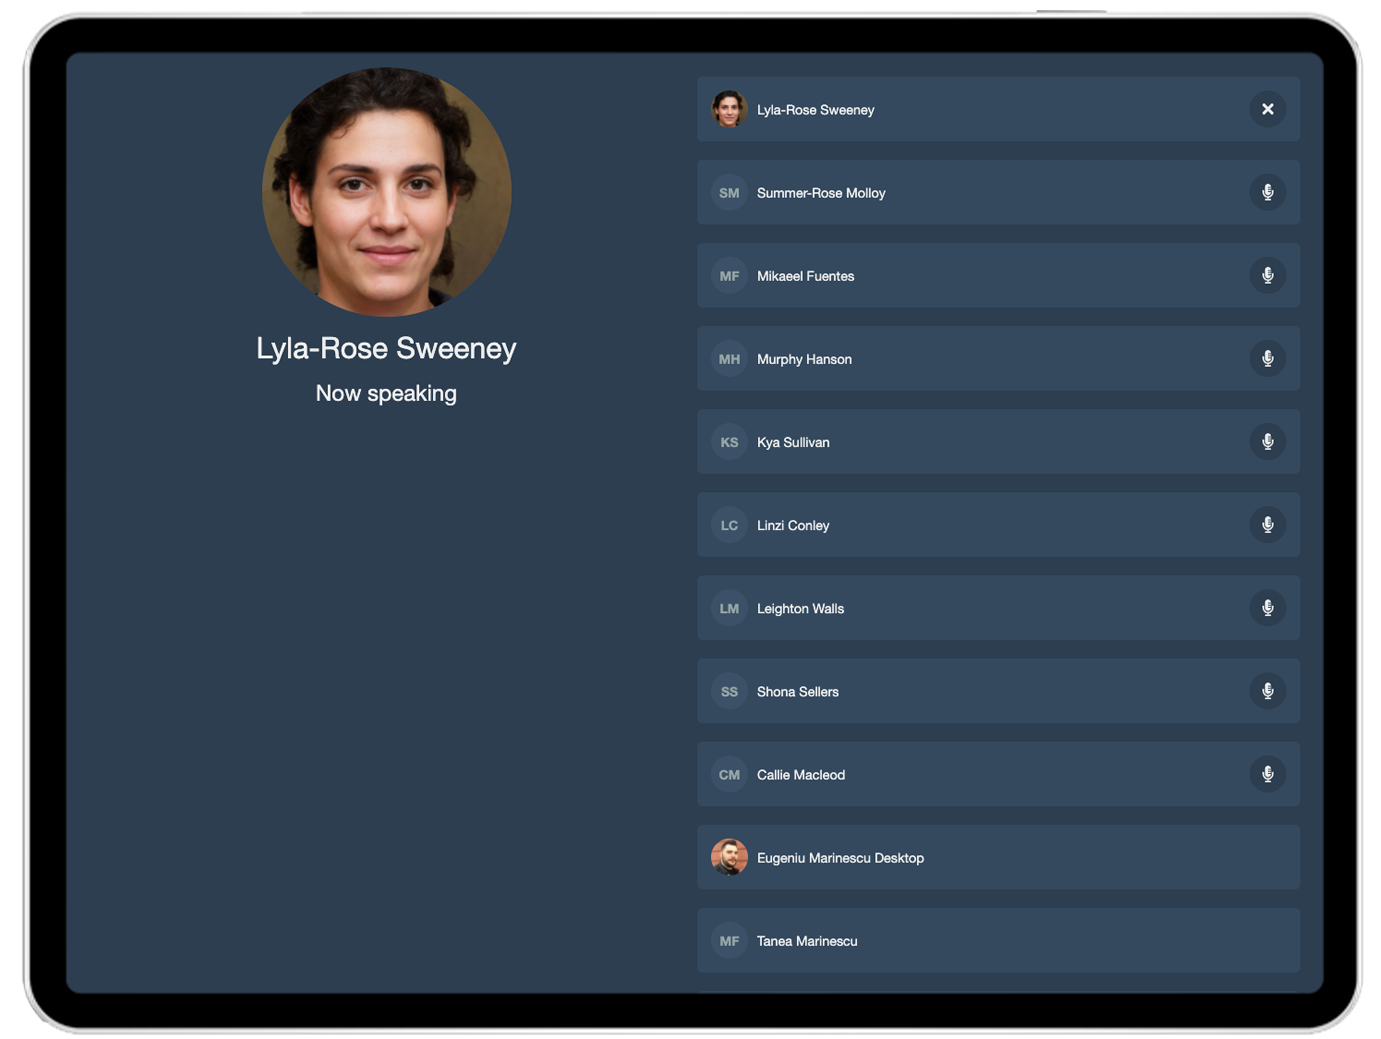
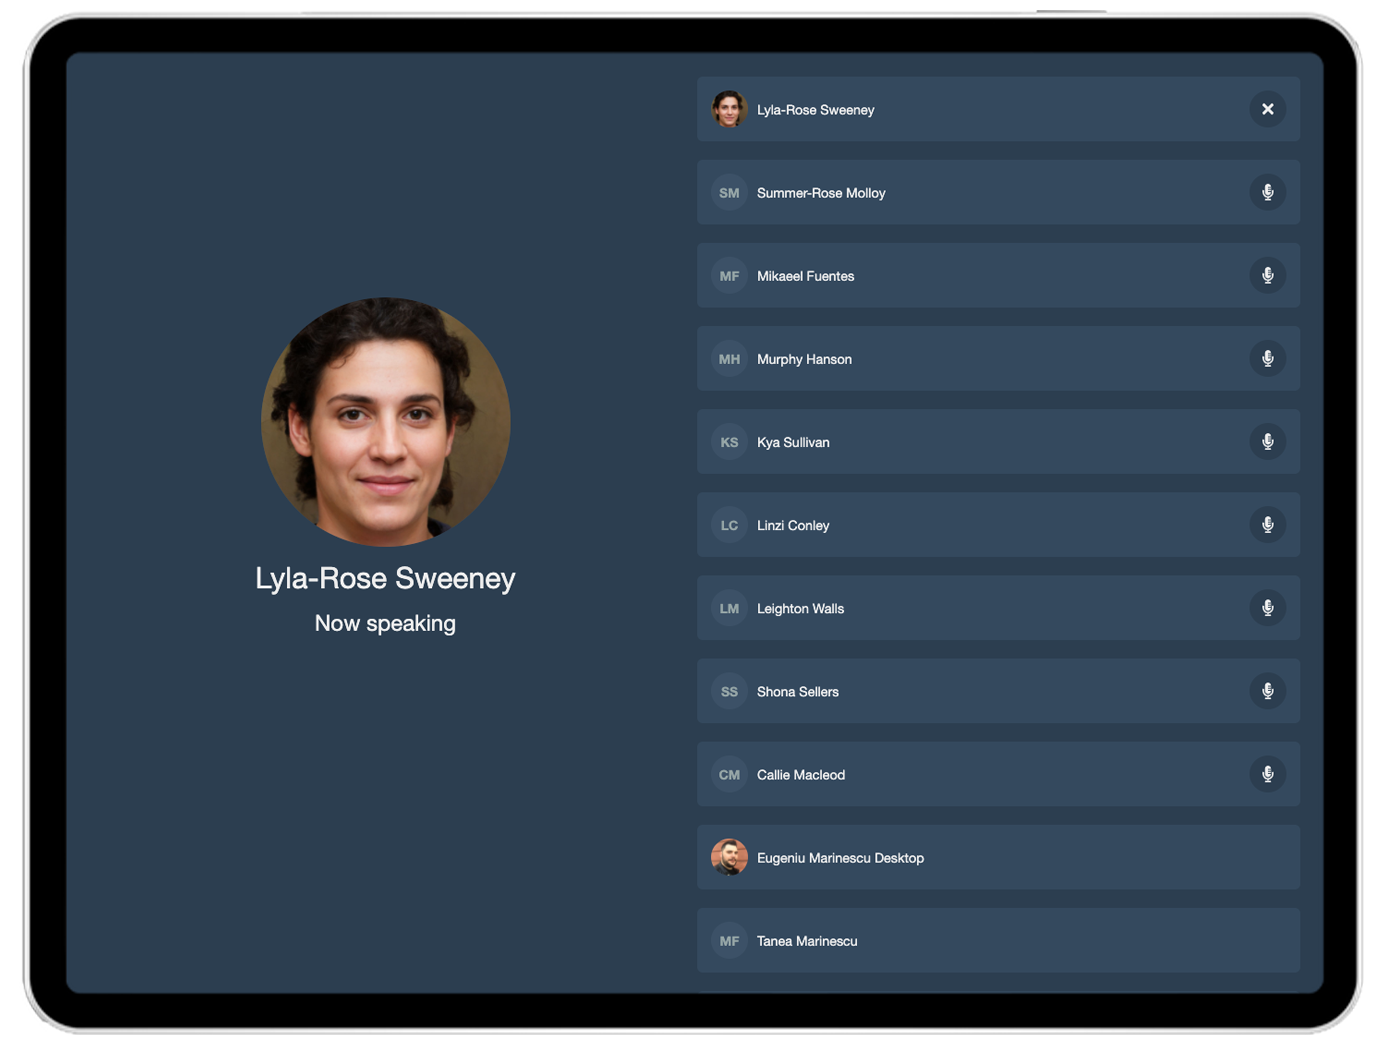
Colors change

Changed region(s): [[0.1868, 0.0616, 0.3736, 0.616]]

diff --git a/src/scss/abstracts/_variables.scss b/src/scss/abstracts/_variables.scss
@@ -7,20 +7,20 @@ $color: (
 		1: #161E2A,
 		2: #6B7A90,
 		3: #FFF,
-		4: #606483,
-        5: #b4c5df
+		4: #eee,
+        5: #bdc3c7
 	),
 	bg: (
 		1: #FFFFFF,
 		2: #F3F4FF,
 		3: #E4E8EE,
-		4: #0B0D19,
-		5: #1E233D
+		4: #2c3e50,
+		5: #34495e
 	),
 	primary: (
-		1: #4234F8,
+		1: #3498db,
 		2: #7065FA,
-		3: #1908F1,
+		3: #2980b9,
 		4: #E2E0FE
  	),
 	secondary: (
